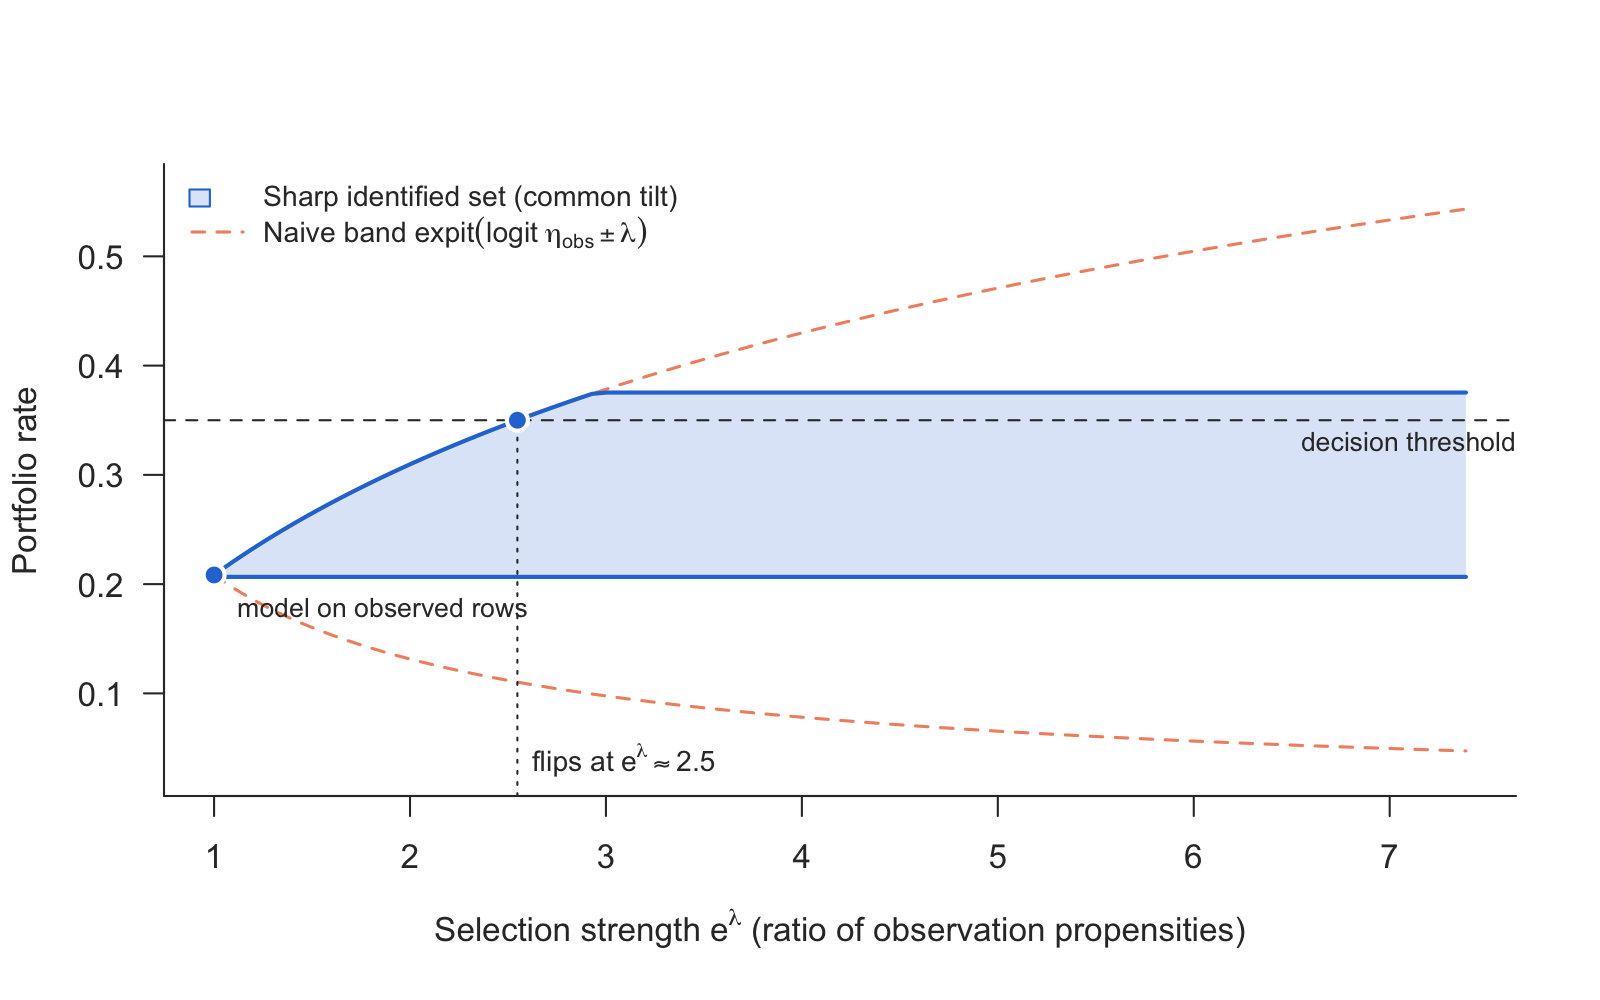
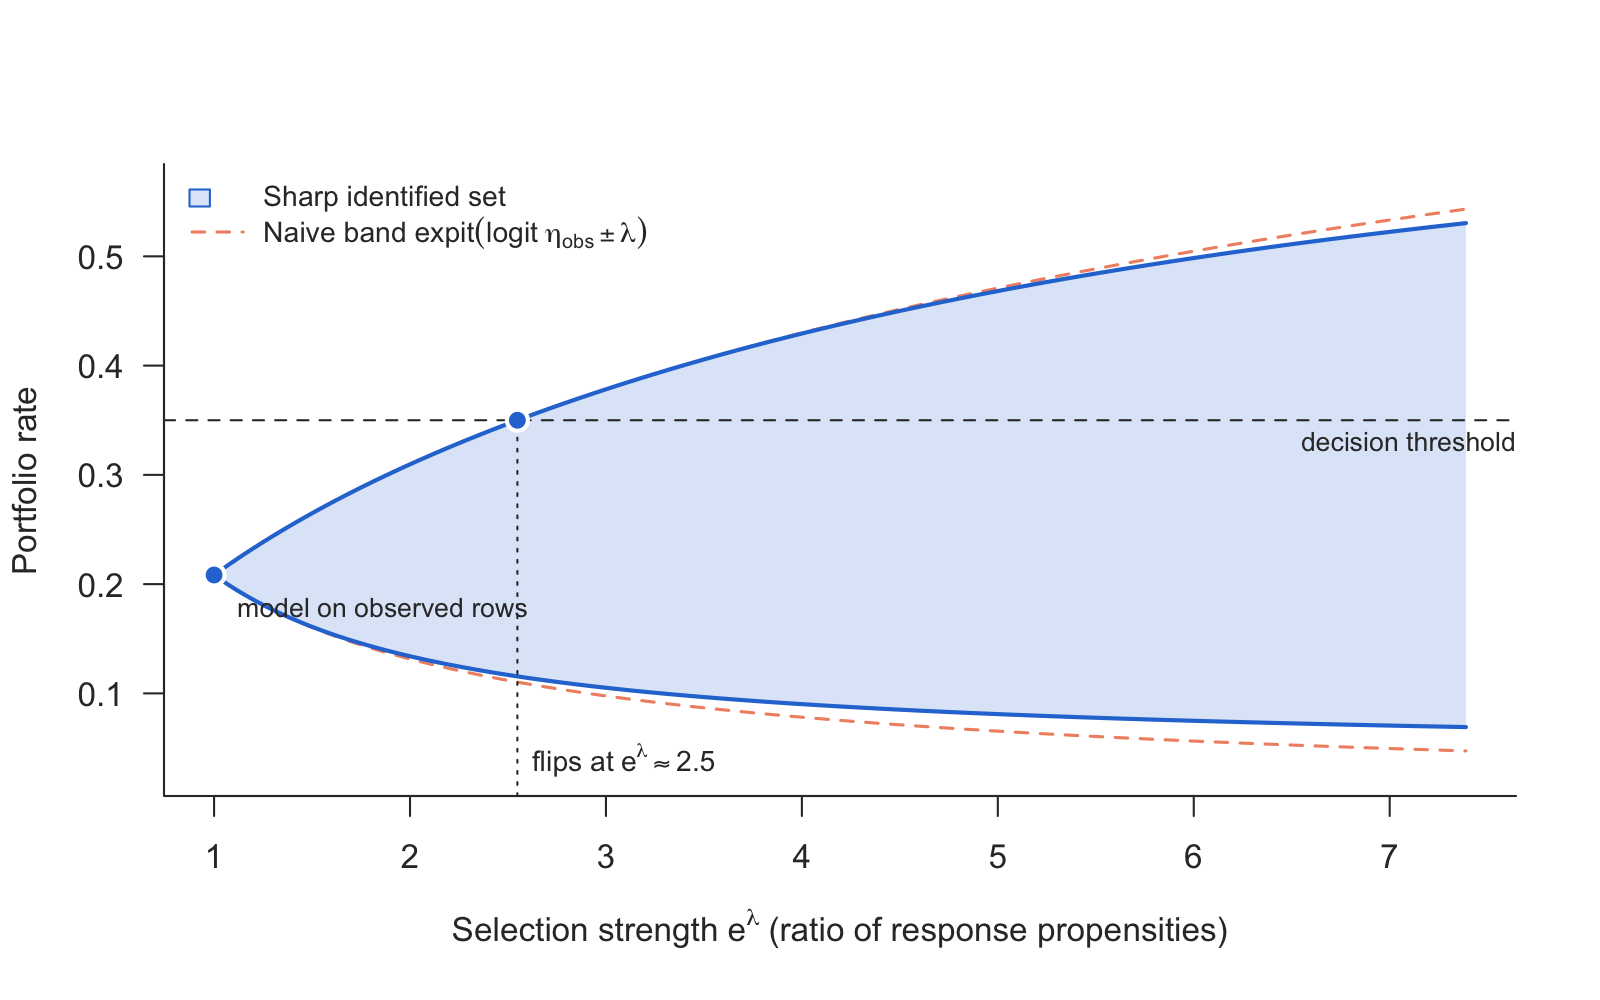
Make "union" the default aggregation of shadow_scan()
Averaging each row's own bounds is the sharp set for the portfolio rate
under the pointwise bound alone and depends on no single row. The common
tilt adds an assumption and is bounded by the most extreme rows, so with
estimated inputs it inherits their estimation error; it stays available
as aggregate = "common", with a warning in the help page.

README figure re-rendered; legend names the common tilt only when used.
DOI added to Manski (1989), checked against the article.

diff --git a/README.md b/README.md
@@ -48,9 +48,11 @@ plot(s)
 
 The sharp set is never wider than the naive band. Where r̂ is small, as for
 rejected applications, its upper edge coincides with the naive one; it is
-narrower only where a worst-case bound cuts the band. With one common tilt for
-all rows (the default), the most extreme rows bound the admissible tilt, which
-produces the plateau above. The help page explains how to read it.
+narrower only where a worst-case bound cuts the band. The default aggregation
+averages each row's own bounds, which is sharp under the pointwise assumption.
+`aggregate = "common"` adds the assumption of one tilt for all rows. That set
+is narrower but is bounded by the most extreme rows, so with estimated inputs
+it inherits their estimation error. The help page explains how to read it.
 
 ## The scan for a mean
 
